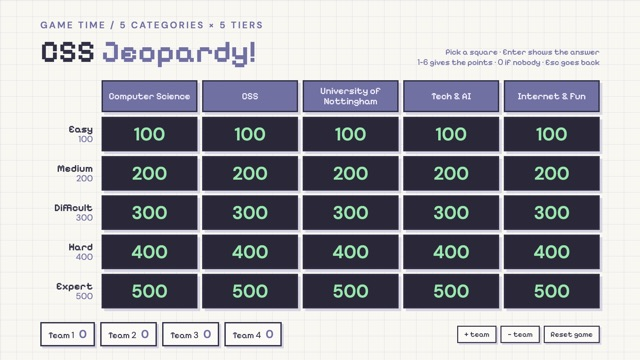
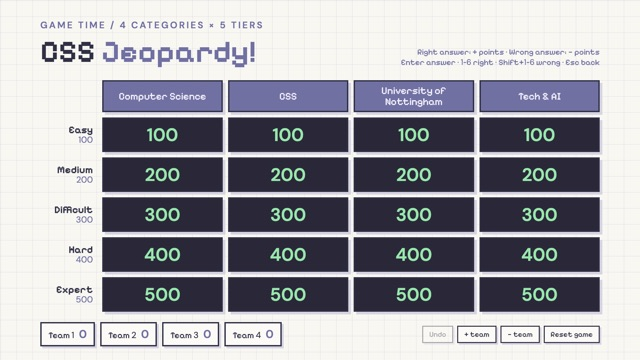
Make Jeopardy 4x5 with points lost for wrong answers
Drop the Internet & Fun column. Each question now has Right and Wrong rows per team: a wrong answer takes the same points off and lets another team try (Shift+1-6), a right answer adds them and closes (1-6). The motto question carries a +200 Latin bonus, and Undo reverses the last score change. Rewrite the Computer Science questions to be less technical (malware, pixels, CAPTCHA, the 1947 bug), reword the hackathon question, replace the internal meeting-day question with the Junior Committee roles, and refresh the University of Nottingham and Tech & AI questions (campus order, founding year, Ningbo, motto, AGI, Chinese Room).

diff --git a/weeklies/04-welcome-jc/index.html b/weeklies/04-welcome-jc/index.html
@@ -84,38 +84,47 @@
     .jp-head{position:absolute;left:120px;top:56px;right:120px;display:flex;align-items:flex-end;justify-content:space-between;gap:40px}
     .jp-head h1{font-size:92px;line-height:1;margin-top:16px}
     .jp-head .hint{font:400 24px ClearDigits,Pixelify,monospace;color:var(--purple);text-align:right}
-    .jp-board{position:absolute;left:120px;right:120px;top:240px;display:grid;grid-template-columns:170px repeat(5,1fr);grid-template-rows:96px repeat(5,104px);gap:14px}
-    .jp-cat{display:grid;place-items:center;padding:0 12px;border:4px solid var(--ink);background:var(--purple);box-shadow:8px 8px 0 var(--shadow);color:#f2f0fb;font:400 28px/1.1 ClearDigits,Pixelify,monospace;text-align:center}
+    .jp-board{position:absolute;left:120px;right:120px;top:240px;display:grid;grid-template-columns:170px repeat(4,1fr);grid-template-rows:96px repeat(5,104px);gap:16px}
+    .jp-cat{display:grid;place-items:center;padding:0 12px;border:4px solid var(--ink);background:var(--purple);box-shadow:8px 8px 0 var(--shadow);color:#f2f0fb;font:400 30px/1.1 ClearDigits,Pixelify,monospace;text-align:center}
     .jp-tier{display:flex;flex-direction:column;justify-content:center;align-items:flex-end;padding-right:12px;font:400 26px/1.1 ClearDigits,Pixelify,monospace;color:var(--purple)}
     .jp-tier b{font-weight:600;color:var(--ink);font-size:30px}
     .jp-cell{border:4px solid var(--ink);background:var(--screen);box-shadow:8px 8px 0 var(--shadow);color:var(--mint);font:600 54px ClearDigits,Pixelify,monospace;cursor:pointer;transition:transform .12s,box-shadow .12s,background .12s}
     .jp-cell:hover,.jp-cell:focus-visible{transform:translate(-3px,-3px);box-shadow:11px 11px 0 var(--shadow);background:#3a3750;outline:none}
     .jp-cell.used{background:var(--card);color:var(--lavender);box-shadow:4px 4px 0 var(--shadow);text-decoration:line-through;text-decoration-thickness:4px}
     .jp-scores{position:absolute;left:120px;right:120px;bottom:40px;display:flex;align-items:center;gap:16px}
-    .jp-team{display:flex;align-items:baseline;gap:14px;padding:10px 20px;border:4px solid var(--ink);background:var(--card);box-shadow:6px 6px 0 var(--shadow);font:400 26px ClearDigits,Pixelify,monospace}
+    .jp-team{display:flex;align-items:baseline;gap:14px;padding:10px 20px;border:4px solid var(--ink);background:var(--card);box-shadow:6px 6px 0 var(--shadow);font:400 26px ClearDigits,Pixelify,monospace;transition:background .3s}
     .jp-team b{font-weight:600;font-size:34px;color:var(--purple)}
+    .jp-team.neg b{color:#c0569f}
+    .jp-team.up{background:var(--mint)}
+    .jp-team.down{background:var(--pink)}
     .jp-tool{margin-left:auto;display:flex;gap:12px}
     .jp-tool button{padding:10px 18px;border:3px solid var(--ink);background:var(--card);box-shadow:5px 5px 0 var(--shadow);font:400 22px ClearDigits,Pixelify,monospace;color:var(--ink);cursor:pointer}
-        .jp-tool button:hover{background:var(--mint)}
+    .jp-tool button:hover{background:var(--mint)}
+    .jp-tool button:disabled{opacity:.4;cursor:default;background:var(--card)}
 
     .jp-card{position:absolute;inset:0;z-index:20;display:none;place-items:center;background:rgba(248,247,242,.82);backdrop-filter:blur(6px)}
     .jp-card.open{display:grid}
-    .jp-card .window{position:relative;width:1480px;background:var(--card)}
-    .jp-card .body{padding:48px 64px 52px}
+    .jp-card .window{position:relative;width:1560px;background:var(--card)}
+    .jp-card .body{padding:40px 60px 44px}
     .jp-card .eyebrow{font-size:26px}
-    .jp-q{margin-top:26px;font:600 64px/1.2 DM,Arial,sans-serif;color:var(--ink);min-height:230px}
-    .jp-a{margin-top:28px;padding:22px 30px;border:4px solid var(--ink);background:var(--mint);box-shadow:8px 8px 0 var(--shadow);font:600 52px/1.2 DM,Arial,sans-serif;visibility:hidden}
+    .jp-q{margin-top:22px;font:600 60px/1.2 DM,Arial,sans-serif;color:var(--ink);min-height:160px}
+    .jp-a{margin-top:22px;padding:18px 28px;border:4px solid var(--ink);background:var(--mint);box-shadow:8px 8px 0 var(--shadow);font:600 48px/1.2 DM,Arial,sans-serif;visibility:hidden}
     .jp-card.revealed .jp-a{visibility:visible}
-    .jp-actions{margin-top:40px;display:flex;flex-wrap:wrap;align-items:center;gap:14px;font:400 26px ClearDigits,Pixelify,monospace;color:var(--purple)}
-    .jp-actions button{padding:14px 24px;border:4px solid var(--ink);background:var(--card);box-shadow:6px 6px 0 var(--shadow);font:400 28px ClearDigits,Pixelify,monospace;color:var(--ink);cursor:pointer}
-    .jp-actions button:hover{background:#e9e7f5}
-    .jp-actions .primary{background:var(--mint)}
-    .jp-actions .primary:hover{background:#b2efc2}
-    .jp-award{display:none;align-items:center;gap:14px;flex-wrap:wrap}
-    .jp-card.revealed .jp-award{display:flex}
-    .jp-card.revealed .jp-reveal{display:none}
-    .jp-back{margin-left:auto}
-    .jp-tool button:disabled{opacity:.4;cursor:default;background:var(--card)}
+    .jp-rows{margin-top:30px;display:grid;gap:14px}
+    .jp-row{display:flex;flex-wrap:wrap;align-items:center;gap:12px}
+    .jp-row > span{min-width:230px;font:400 28px ClearDigits,Pixelify,monospace;color:var(--ink)}
+    .jp-row.right > span{color:#2f8a4b}
+    .jp-row.wrong > span{color:#c0569f}
+    .jp-row.bonus > span{color:var(--purple)}
+    .jp-card button{padding:12px 22px;border:4px solid var(--ink);background:var(--card);box-shadow:6px 6px 0 var(--shadow);font:400 26px ClearDigits,Pixelify,monospace;color:var(--ink);cursor:pointer}
+    .jp-row.right button:hover{background:var(--mint)}
+    .jp-row.wrong button:hover{background:var(--pink)}
+    .jp-row.bonus button:hover{background:#e9e7f5}
+    .jp-card button:disabled{opacity:.35;cursor:default;background:var(--card);box-shadow:none;text-decoration:line-through}
+    .jp-foot{margin-top:28px;display:flex;align-items:center;gap:14px}
+    .jp-foot .primary{background:var(--mint)}
+    .jp-card.revealed .jp-reveal{visibility:hidden}
+    .jp-foot .spacer{flex:1}
 
     .pager{position:fixed;right:16px;bottom:16px;padding:4px 10px;border-radius:999px;background:rgba(0,0,0,.7);color:#fff;font:12px/1.5 system-ui,sans-serif;font-variant-numeric:tabular-nums;opacity:0;transition:opacity .3s;pointer-events:none}
     .pager.on{opacity:1}
@@ -192,10 +201,10 @@
     <section class="slide" aria-label="Slide 3: CSS Jeopardy" hidden>
       <div class="jp-head">
         <div>
-          <p class="eyebrow rise">GAME TIME / 5 CATEGORIES × 5 TIERS</p>
+          <p class="eyebrow rise">GAME TIME / 4 CATEGORIES × 5 TIERS</p>
           <h1 class="rise" style="--d:1">CSS <em>Jeopardy!</em></h1>
         </div>
-        <p class="hint rise" style="--d:2">Pick a square · Enter shows the answer<br>1–6 gives the points · 0 if nobody · Esc goes back</p>
+        <p class="hint rise" style="--d:2">Right answer: + points · Wrong answer: − points<br>Enter answer · 1–6 right · Shift+1–6 wrong · Esc back</p>
       </div>
       <div class="jp-board rise" style="--d:2" id="jp-board" data-no-nav></div>
       <div class="jp-scores" id="jp-scores" data-no-nav></div>
@@ -206,10 +215,12 @@
             <p class="eyebrow" id="jp-meta"></p>
             <p class="jp-q" id="jp-q"></p>
             <p class="jp-a" id="jp-a"></p>
-            <div class="jp-actions">
+            <div class="jp-rows" id="jp-rows"></div>
+            <div class="jp-foot">
               <button class="primary jp-reveal" id="jp-reveal" type="button">Show answer (Enter)</button>
-              <div class="jp-award" id="jp-award"></div>
-              <button class="jp-back" id="jp-back" type="button">Back to board (Esc)</button>
+              <span class="spacer"></span>
+              <button id="jp-nobody" type="button">Nobody got it (0)</button>
+              <button id="jp-back" type="button">Back to board (Esc)</button>
             </div>
           </div>
         </div>
@@ -283,57 +294,70 @@
     })();
   </script>
   <script>
-    // CSS Jeopardy (slide 3): 5 categories × 5 tiers, team scores kept in this browser.
+    // CSS Jeopardy (slide 3): 4 categories × 5 tiers. Right answers add the points, wrong answers take
+    // the same amount off, and some questions have a bonus. Scores are kept in this browser.
     (function () {
       var TIERS = [['Easy', 100], ['Medium', 200], ['Difficult', 300], ['Hard', 400], ['Expert', 500]];
       var BOARD = [
         { cat: 'Computer Science', qs: [
           ['What does CPU stand for?', 'Central Processing Unit'],
-          ['What is 101 in binary, as a normal (decimal) number?', '5'],
-          ['Which data structure works “last in, first out”?', 'A stack'],
-          ['What is the time complexity of binary search?', 'O(log n)'],
-          ['In 1947, engineers found a real “bug” stuck inside the Harvard Mark II computer. What was it?', 'A moth'],
+          ['What do we call software made to harm your computer, like viruses, worms and ransomware?', 'Malware'],
+          ['Every image on your screen is made of tiny coloured dots. What are they called?', 'Pixels'],
+          ['What is the “prove you’re human” test called, like clicking every picture with a traffic light?', 'CAPTCHA'],
+          ['When a program isn’t working, we say it has a “…”. The word became famous in 1947, when engineers found a real one stuck inside the Harvard Mark II computer. What is it?', 'A bug (it was a moth!)'],
         ] },
         { cat: 'CSS', qs: [
           ['What does CSS stand for?', 'Computer Science Society'],
           ['Finish the CSS motto: “We don’t code, …”', '“… we build”'],
           ['Which country is the CSS president from?', 'South Korea'],
-          ['What was CSS’s first-ever open hackathon called?', 'NottsHack’26'],
-          ['On which day of the week does the CSS committee hold its weekly meeting?', 'Tuesday (6 PM)'],
+          ['What was the first-ever open hackathon hosted at the University of Nottingham in 2026 called?', 'NottsHack’26'],
+          ['Name all four Junior Committee roles.', 'Junior President, Junior Tech Officer, Junior Event Manager and Junior Designer'],
         ] },
         { cat: 'University of Nottingham', qs: [
           ['The University of Nottingham’s home campus is in which country?', 'The United Kingdom (England)'],
-          ['Our Malaysia campus is in which town in Selangor?', 'Semenyih'],
-          ['Besides the UK and Malaysia, the University of Nottingham has a campus in which country?', 'China (Ningbo)'],
-          ['UNM was the first university from which country to open a campus in Malaysia?', 'The UK (it was the first British university there)'],
-          ['What is the University of Nottingham’s Latin motto?', '“Sapientia urbs conditur” (A city is built on wisdom)'],
+          ['Is the Malaysia campus the University of Nottingham’s 1st, 2nd or 3rd campus?', '2nd'],
+          ['In which year was the University of Nottingham Malaysia established?', '2000'],
+          ['The University of Nottingham’s third campus is in China. Which city is it in?', 'Ningbo'],
+          ['What does the University of Nottingham’s motto mean in English? (+200 bonus if you can say it in Latin)', '“A city is built on wisdom” · Latin: “Sapientia urbs conditur”', { bonus: 200, label: 'Latin' }],
         ] },
         { cat: 'Tech & AI', qs: [
           ['What does “AI” stand for?', 'Artificial Intelligence'],
-          ['What does “GPT” in ChatGPT stand for?', 'Generative Pre-trained Transformer'],
           ['Which company makes the AI assistant Claude?', 'Anthropic'],
-          ['What is the latest AI model Anthropic has released?', 'Claude Sonnet 5.5 (28 Sep 2026). Check anthropic.com/news on the day; accept any Claude 5.5 model'],
-          ['Which 1950 test asks whether a machine can pass as a human in conversation?', 'The Turing test (Alan Turing’s “imitation game”)'],
-        ] },
-        { cat: 'Internet & Fun', qs: [
-          ['Ctrl + C copies. What does Ctrl + V do?', 'Paste'],
-          ['What’s the classic error code when a web page can’t be found?', '404'],
-          ['The Python language isn’t named after the snake. What is it named after?', 'Monty Python, the comedy group'],
-          ['Which keyboard shortcut reopens the browser tab you just closed?', 'Ctrl + Shift + T (Cmd + Shift + T on a Mac)'],
-          ['The first message sent over ARPANET in 1969 was meant to be “LOGIN”. What actually arrived before the system crashed?', '“LO”'],
+          ['What does “GPT” in ChatGPT stand for?', 'Generative Pre-trained Transformer'],
+          ['What three-letter term means AI that could match humans at almost any thinking task, not just one job?', 'AGI (Artificial General Intelligence)'],
+          ['Which famous thought experiment imagines someone in a room using a rulebook to reply in a language they don’t understand, to argue that computers don’t truly “understand”?', 'The Chinese Room (John Searle, 1980)'],
         ] },
       ];
-      var STORE = 'cssweekly-04-jeopardy';
+      var STORE = 'cssweekly-04-jeopardy-v2';
       var board = document.getElementById('jp-board');
       var scoresEl = document.getElementById('jp-scores');
       var card = document.getElementById('jp-card');
-      var state = { used: {}, scores: [0, 0, 0, 0] };
-      var open = null; // { c, r }
+      var rows = document.getElementById('jp-rows');
+      var state = { used: {}, scores: [0, 0, 0, 0], history: [] };
+      var open = null; // { c, r, tried: {}, bonusGiven: {} }
 
-      try { var saved = JSON.parse(localStorage.getItem(STORE)); if (saved && saved.scores) state = saved; } catch (e) {}
+      try {
+        var saved = JSON.parse(localStorage.getItem(STORE));
+        if (saved && saved.scores) { state = saved; state.history = state.history || []; }
+      } catch (e) {}
       function save() { try { localStorage.setItem(STORE, JSON.stringify(state)); } catch (e) {} }
 
       function el(tag, cls, text) { var n = document.createElement(tag); if (cls) n.className = cls; if (text != null) n.textContent = text; return n; }
+      function button(text, onClick) {
+        var b = el('button', null, text);
+        b.type = 'button';
+        b.addEventListener('click', function (e) { e.stopPropagation(); onClick(); });
+        return b;
+      }
+      function signed(n) { return (n > 0 ? '+' : n < 0 ? '−' : '') + Math.abs(n); }
+
+      function change(team, delta) {
+        state.scores[team] += delta;
+        state.history.push({ team: team, delta: delta });
+        if (state.history.length > 200) state.history.shift();
+        save();
+        renderScores(team, delta);
+      }
 
       function renderBoard() {
         board.innerHTML = '';
@@ -354,46 +378,75 @@
         });
       }
 
-      function renderScores() {
+      function renderScores(flashTeam, delta) {
         scoresEl.innerHTML = '';
         state.scores.forEach(function (score, i) {
-          var t = el('div', 'jp-team');
+          var t = el('div', 'jp-team' + (score < 0 ? ' neg' : ''));
           t.appendChild(document.createTextNode('Team ' + (i + 1)));
-          t.appendChild(el('b', null, String(score)));
+          t.appendChild(el('b', null, score < 0 ? '−' + Math.abs(score) : String(score)));
+          if (i === flashTeam) {
+            t.classList.add(delta > 0 ? 'up' : 'down');
+            setTimeout(function () { t.classList.remove('up', 'down'); }, 700);
+          }
           scoresEl.appendChild(t);
         });
         var tools = el('div', 'jp-tool');
-        var add = el('button', null, '+ team');
-        add.type = 'button';
+        var undo = button('Undo', function () {
+          var last = state.history.pop();
+          if (!last) return;
+          state.scores[last.team] -= last.delta;
+          save();
+          renderScores(last.team, -last.delta);
+        });
+        undo.disabled = !state.history.length;
+        undo.title = state.history.length ? 'Undo ' + signed(state.history[state.history.length - 1].delta) + ' for Team ' + (state.history[state.history.length - 1].team + 1) : 'Nothing to undo';
+        var add = button('+ team', function () { if (state.scores.length < 6) { state.scores.push(0); save(); renderScores(); } });
         add.disabled = state.scores.length >= 6;
-        add.addEventListener('click', function (e) {
-          e.stopPropagation();
-          if (state.scores.length < 6) { state.scores.push(0); save(); renderScores(); }
+        var remove = button('− team', function () {
+          if (state.scores.length <= 2) return;
+          var gone = state.scores.length - 1;
+          state.scores.pop();
+          state.history = state.history.filter(function (h) { return h.team !== gone; });
+          save(); renderScores();
         });
-        var remove = el('button', null, '− team');
-        remove.type = 'button';
         remove.disabled = state.scores.length <= 2;
-        remove.addEventListener('click', function (e) {
-          e.stopPropagation();
-          if (state.scores.length > 2) { state.scores.pop(); save(); renderScores(); }
-        });
-        var reset = el('button', null, 'Reset game');
-        reset.type = 'button';
-        reset.addEventListener('click', function (e) {
-          e.stopPropagation();
+        var reset = button('Reset game', function () {
           if (!window.confirm('Clear the board and all scores?')) return;
-          state = { used: {}, scores: state.scores.map(function () { return 0; }) };
+          state = { used: {}, scores: state.scores.map(function () { return 0; }), history: [] };
           save(); renderBoard(); renderScores();
         });
-        tools.appendChild(add);
-        tools.appendChild(remove);
-        tools.appendChild(reset);
+        [undo, add, remove, reset].forEach(function (b) { tools.appendChild(b); });
         scoresEl.appendChild(tools);
       }
 
+      function renderRows() {
+        var c = open.c, r = open.r, points = TIERS[r][1], extra = BOARD[c].qs[r][2];
+        rows.innerHTML = '';
+        var right = el('div', 'jp-row right'); right.appendChild(el('span', null, 'Right ' + signed(points)));
+        var wrong = el('div', 'jp-row wrong'); wrong.appendChild(el('span', null, 'Wrong ' + signed(-points)));
+        state.scores.forEach(function (_, i) {
+          var r1 = button('Team ' + (i + 1), function () { change(i, points); close(); });
+          var w1 = button('Team ' + (i + 1), function () { change(i, -points); open.tried[i] = true; renderRows(); });
+          r1.disabled = w1.disabled = !!open.tried[i];
+          right.appendChild(r1);
+          wrong.appendChild(w1);
+        });
+        rows.appendChild(right);
+        rows.appendChild(wrong);
+        if (extra && extra.bonus) {
+          var bonus = el('div', 'jp-row bonus'); bonus.appendChild(el('span', null, 'Bonus ' + signed(extra.bonus) + ' (' + extra.label + ')'));
+          state.scores.forEach(function (_, i) {
+            var b1 = button('Team ' + (i + 1), function () { change(i, extra.bonus); open.bonusGiven[i] = true; renderRows(); });
+            b1.disabled = !!open.bonusGiven[i];
+            bonus.appendChild(b1);
+          });
+          rows.appendChild(bonus);
+        }
+      }
+
       function openQuestion(c, r) {
-        open = { c: c, r: r };
-        state.used[c + '-' + r] = true;
+        open = { c: c, r: r, tried: {}, bonusGiven: {} };
+        state.used[c + '-' + r] = true; // opening a square crosses it off
         save();
         renderBoard();
         var col = BOARD[c], tier = TIERS[r], qa = col.qs[r];
@@ -401,52 +454,35 @@
         document.getElementById('jp-meta').textContent = col.cat.toUpperCase() + ' · ' + tier[0].toUpperCase() + ' · ' + tier[1] + ' POINTS';
         document.getElementById('jp-q').textContent = qa[0];
         document.getElementById('jp-a').textContent = qa[1];
-        var award = document.getElementById('jp-award');
-        award.innerHTML = '';
-        award.appendChild(document.createTextNode('Points to:'));
-        state.scores.forEach(function (_, i) {
-          var b = el('button', null, 'Team ' + (i + 1));
-          b.type = 'button';
-          b.addEventListener('click', function (e) { e.stopPropagation(); finish(i); });
-          award.appendChild(b);
-        });
-        var none = el('button', null, 'Nobody');
-        none.type = 'button';
-        none.addEventListener('click', function (e) { e.stopPropagation(); finish(-1); });
-        award.appendChild(none);
+        renderRows();
         card.classList.remove('revealed');
         card.classList.add('open');
         document.getElementById('jp-reveal').focus();
       }
 
       function reveal() { if (open) card.classList.add('revealed'); }
-
-      function finish(team) {
-        if (!open) return;
-        if (team >= 0) state.scores[team] += TIERS[open.r][1];
-        state.used[open.c + '-' + open.r] = true;
-        save();
-        close();
-        renderBoard();
-        renderScores();
-      }
-
-      function close() { open = null; card.classList.remove('open', 'revealed'); }
+      function close() { open = null; card.classList.remove('open', 'revealed'); renderBoard(); }
 
       document.getElementById('jp-reveal').addEventListener('click', function (e) { e.stopPropagation(); reveal(); });
+      document.getElementById('jp-nobody').addEventListener('click', function (e) { e.stopPropagation(); close(); });
       document.getElementById('jp-back').addEventListener('click', function (e) { e.stopPropagation(); close(); });
       card.addEventListener('click', function (e) { e.stopPropagation(); });
 
-      // While a question is open, keys drive the question instead of changing slides.
+      // While a question is open: Enter reveals, 1–6 right, Shift+1–6 wrong, 0 nobody, Esc back.
       window.addEventListener('keydown', function (e) {
         if (!open) return;
         e.stopPropagation();
-        var k = e.key;
-        if (k === 'Escape') { e.preventDefault(); close(); }
-        else if (k === 'Enter' || k === ' ') { e.preventDefault(); if (!card.classList.contains('revealed')) reveal(); }
-        else if (card.classList.contains('revealed') && /^[0-6]$/.test(k)) {
-          var n = Number(k);
-          if (n === 0) finish(-1); else if (n <= state.scores.length) finish(n - 1);
+        var digit = /^Digit([0-6])$/.exec(e.code) || /^Numpad([0-6])$/.exec(e.code);
+        if (e.key === 'Escape') { e.preventDefault(); close(); }
+        else if (e.key === 'Enter' || e.key === ' ') { e.preventDefault(); reveal(); }
+        else if (digit) {
+          e.preventDefault();
+          var n = Number(digit[1]), points = TIERS[open.r][1];
+          if (n === 0) { close(); return; }
+          var team = n - 1;
+          if (team >= state.scores.length || open.tried[team]) return;
+          if (e.shiftKey) { change(team, -points); open.tried[team] = true; renderRows(); }
+          else { change(team, points); close(); }
         }
       }, true);
 

diff --git a/index.html b/index.html
@@ -43,7 +43,7 @@
           </div>
           <p class="summary">This week’s weekly welcomes the new Junior Committee to the CSS team, then plays a round of CSS Jeopardy.</p>
           <h3>What we covered</h3>
-          <ul class="covered"><li>Welcome Junior Committees! Radzi, Thu Thu, Zachary and Karon</li><li>CSS Jeopardy: 25 questions across Computer Science, CSS, University of Nottingham, Tech &amp; AI and Internet &amp; Fun</li></ul>
+          <ul class="covered"><li>Welcome Junior Committees! Radzi, Thu Thu, Zachary and Karon</li><li>CSS Jeopardy: 20 questions across Computer Science, CSS, University of Nottingham and Tech &amp; AI; wrong answers lose the points</li></ul>
           <h3>All 3 slides</h3>
           <ol class="thumbs"><li><a class="thumb" href="weeklies/04-welcome-jc/#1"><img src="weeklies/thumbs/04-1.jpg" alt="" loading="lazy" width="640" height="360"><span class="thumb-caption"><b>01</b> CSS Weekly #04</span></a></li><li><a class="thumb" href="weeklies/04-welcome-jc/#2"><img src="weeklies/thumbs/04-2.jpg" alt="" loading="lazy" width="640" height="360"><span class="thumb-caption"><b>02</b> Welcome Junior Committees!</span></a></li><li><a class="thumb" href="weeklies/04-welcome-jc/#3"><img src="weeklies/thumbs/04-3.jpg" alt="" loading="lazy" width="640" height="360"><span class="thumb-caption"><b>03</b> CSS Jeopardy</span></a></li></ol>
         </div>

diff --git a/README.md b/README.md
@@ -18,7 +18,7 @@ Regular slot: Tuesdays at 6 PM, under an hour.
 - F: fullscreen
 - P: print every slide (weeklies 01 and 02)
 
-Weekly 04 slide 3 is CSS Jeopardy: click a square to open its question. Enter shows the answer, 1–6 gives the points to that team, 0 if nobody got it, and Esc goes back to the board. Scores are saved in the browser until you click Reset game.
+Weekly 04 slide 3 is CSS Jeopardy (4 categories × 5 tiers). Click a square to open its question; it is crossed off straight away. A right answer adds the points and a wrong answer takes the same amount off: use the Right and Wrong buttons, or 1–6 for right and Shift+1–6 for wrong. Enter shows the answer, 0 means nobody got it and Esc goes back to the board. The motto question has a +200 Latin bonus. Undo reverses the last score change, and scores are saved in the browser until you click Reset game.
 
 Weekly 03 has a 10-minute countdown on slide 4, before Round 1. Click Press start or press S to start or pause; M mutes and R resets. It plays Space Walk by Silent Partner from the YouTube Audio Library (no attribution required), embedded in the deck, and pauses when you leave the slide.
 
